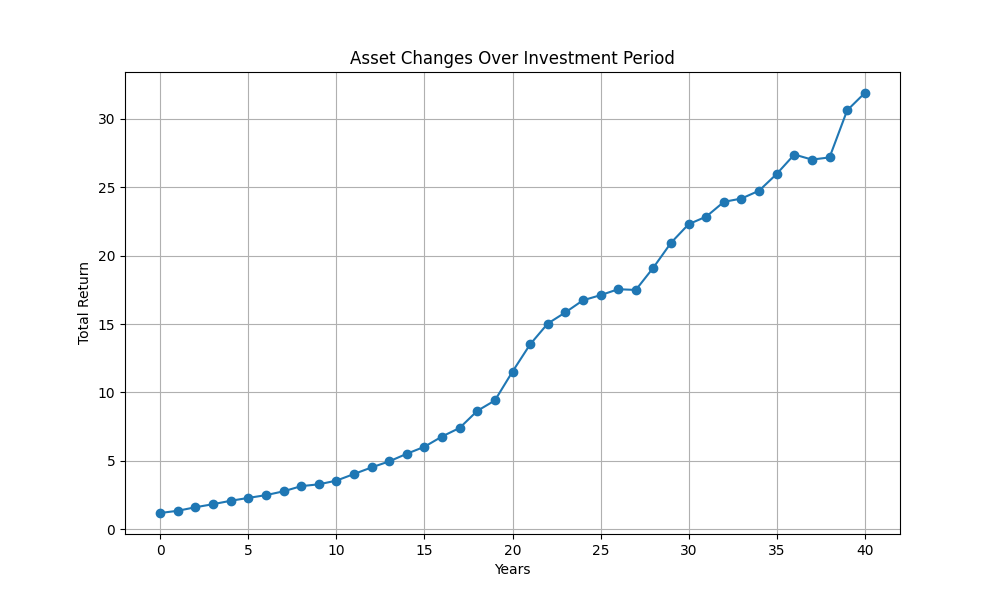
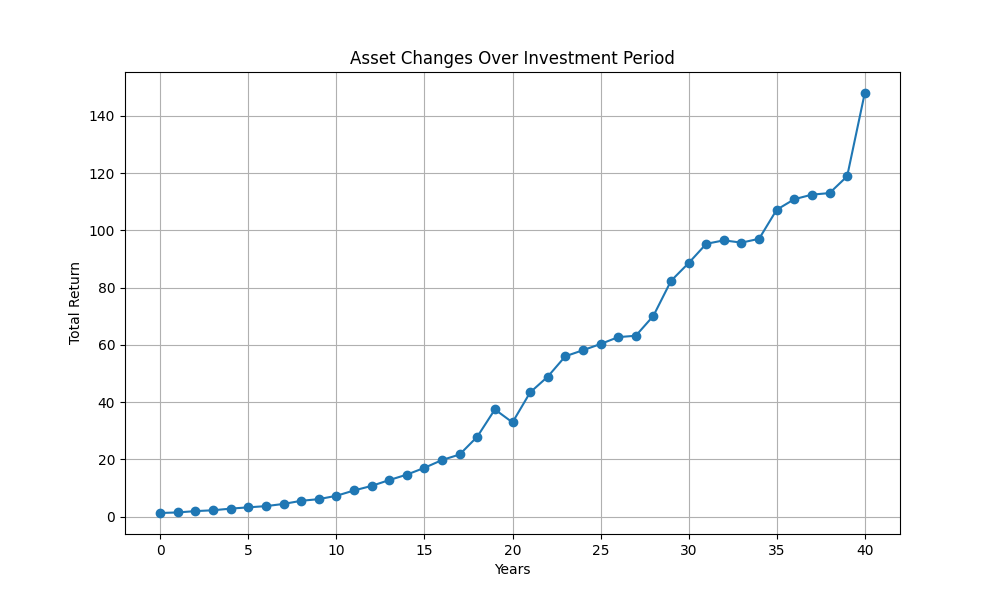
feat: take off pca & company feature and add trading fee

diff --git a/src/trading_strategy/trading.py b/src/trading_strategy/trading.py
@@ -27,10 +27,10 @@ class PairTradingService:
             diff = top_stock['mom1m'] - bottom_stock['mom1m']
             pairs.append((top_stock, bottom_stock, diff))
 
-        std_dev = np.std([p[2] for p in pairs])
-        valid_pairs = [p for p in pairs if p[2] > std_dev * self.std_dev_factor]
+        #std_dev = np.std([p[2] for p in pairs])
+        #valid_pairs = [p for p in pairs if p[2] > std_dev * self.std_dev_factor]
 
-        return valid_pairs
+        return pairs
 
     def form_portfolio(self, pairs):
         long_short_portfolio = {'long': [], 'short': []}
@@ -43,11 +43,19 @@ class PairTradingService:
         grouped_by_cluster = month_data.groupby('cluster')
         current_month_portfolio = {'long': [], 'short': []}
 
+        all_pairs=[]
         for cluster, cluster_data in grouped_by_cluster:
             pairs = self.find_pairs(cluster_data)
-            portfolio = self.form_portfolio(pairs)
-            current_month_portfolio['long'].extend(portfolio['long'])
-            current_month_portfolio['short'].extend(portfolio['short'])
+            all_pairs += pairs
+
+        std_dev = np.std([p[2] for p in all_pairs])
+        valid_pairs = [p for p in all_pairs if p[2] > std_dev * self.std_dev_factor]
+
+        print(" pair data for month ", month, "\n pair numbers: ", len(valid_pairs))
+
+        portfolio = self.form_portfolio(valid_pairs)
+        current_month_portfolio['long'].extend(portfolio['long'])
+        current_month_portfolio['short'].extend(portfolio['short'])
 
         return month, current_month_portfolio
 
@@ -77,13 +85,16 @@ class PairTradingService:
                     returns = self.calculate_monthly_returns(current_month_portfolio, next_month_data)
                     month_return.append([month, returns])
 
-        total_returns=[]
+        total_returns = []
+        monthly_returns = []
         for i, data in enumerate(tqdm(month_return, desc="Calculating total returns")):
             total_return *= (1 + data[1])
+            monthly_returns.append(data[1])
             if (i + 1) % 12 == 0:
                 total_returns.append(total_return)
 
         self.save_asset_changes_plot(total_returns)
+        self.save_monthly_returns_plot(monthly_returns)
 
         # Calculate IRR
         print("Annual IRR : ", total_return ** (1 / len(total_returns))*100-100,"%")
@@ -104,7 +115,7 @@ class PairTradingService:
 
         total_returns = long_returns + short_returns
         average_return = np.mean(total_returns) if total_returns else 0
-        return average_return
+        return average_return * 0.9985 # from https://www.sec.gov/edgar/filer/filing-fees/filing-fee-rate
 
     def save_asset_changes_plot(self,total_returns):
         """
@@ -127,3 +138,20 @@ class PairTradingService:
         total_returns_file = os.path.join(data_folder, '..', 'total_returns.pkl')  # Path to store total_returns data
         with open(total_returns_file, 'wb') as f:
             pickle.dump(total_returns, f)
+
+    def save_monthly_returns_plot(self, monthly_returns):
+        """
+        Save the plot of monthly returns over the investment period.
+
+        Args:
+            monthly_returns (list): List of monthly returns over the investment period.
+        """
+        print(monthly_returns)
+        plot_path = PATHS[config.CLUSTERING_ALGORITHM]['monthly_return_plot']  # Get the plot path from the config
+        plt.figure(figsize=(10, 6))
+        plt.plot(monthly_returns, marker='o', linestyle='-')
+        plt.title('Monthly Returns Over Investment Period')
+        plt.xlabel('Months')
+        plt.ylabel('Monthly Return')
+        plt.grid(True)
+        plt.savefig(plot_path)  # Save the plot to the specified path

diff --git a/src/data_processing/DataProcessor.py b/src/data_processing/DataProcessor.py
@@ -51,10 +51,12 @@ class DataProcessor:
         """Sanitize and feature engineer the preprocessed data."""
         filepath_feature_engineered = self.filepath_parquet.replace('.parquet', '_features.parquet')
 
+        result = pd.DataFrame()
         if os.path.exists(filepath_feature_engineered):
             # If preprocessed and feature engineered data exists, load it
             print("Step: Loading preprocessed and feature engineered data")
-            self.dataframe = pd.read_parquet(filepath_feature_engineered)
+            #self.dataframe = pd.read_parquet(filepath_feature_engineered)
+            result = pd.read_parquet(filepath_feature_engineered)
             print("Finish: Loading preprocessed and feature engineered data")
         else:
             # Otherwise, start sanitization and feature engineering
@@ -65,10 +67,18 @@ class DataProcessor:
             self.remove_high_nan_features()
 
             # Save the preprocessed and feature engineered data as Parquet
-            self.dataframe.to_parquet(filepath_feature_engineered, index=False, compression='snappy')
+            # self.dataframe.to_parquet(filepath_feature_engineered, index=False, compression='snappy')
+            # print("Finish: Sanitization and feature engineering")
+
+            result=pd.DataFrame()
+            features_to_exclude = ['permno', 'DATE'] + [f'mom{i}m' for i in range(1, self.WINDOW + 1)]
+            for feature in features_to_exclude:
+                result[feature] = self.dataframe[feature]
+            result.to_parquet(filepath_feature_engineered, index=False, compression='snappy')
             print("Finish: Sanitization and feature engineering")
 
-        return self.dataframe
+        #return self.dataframe
+        return result
 
 
     def calculate_momentum(self):

diff --git a/src/config.py b/src/config.py
@@ -8,19 +8,22 @@ PATHS = {
         'models': "../datafile/kmeans/models_df.pkl",
         'data': "../datafile/kmeans/clean_data.pkl",
         'plot': "../plots/kmeans_asset_changes.png",
-        'returns_list': "../datafile/kmeans/total_returns.pkl"  # Add returns_list path for kmeans
+        'returns_list': "../datafile/kmeans/total_returns.pkl",  # Add returns_list path for kmeans
+        'monthly_return_plot':"../plots/kmeans_monthly_return_plot.png"
     },
     'dbscan': {
         'models': "../datafile/dbscan/models_df.pkl",
         'data': "../datafile/dbscan/clean_data.pkl",
         'plot': "../plots/dbscan_asset_changes.png",
-        'returns_list': "../datafile/dbscan/total_returns.pkl"  # Add returns_list path for dbscan
+        'returns_list': "../datafile/dbscan/total_returns.pkl",  # Add returns_list path for dbscan
+        'monthly_return_plot':"../plots/dbscan_monthly_return_plot.png"
     },
     'agglo': {
         'models': "../datafile/agglomerative/models_df.pkl",
         'data': "../datafile/agglomerative/clean_data.pkl",
         'plot': "../plots/agglomerative_asset_changes.png",
-        'returns_list': "../datafile/agglomerative/total_returns.pkl"  # Add returns_list path for agglomerative
+        'returns_list': "../datafile/agglomerative/total_returns.pkl",  # Add returns_list path for agglomerative
+        'monthly_return_plot':"../plots/agglo_monthly_return_plot.png"
     },
     'faiss': {
         'models': "../datafile/faiss/models_df.pkl",

diff --git a/src/utilities/utils.py b/src/utilities/utils.py
@@ -18,9 +18,10 @@ def load_and_prepare_data():
     )
     processor.load_data()
     processor.preprocess_data()
-    processor.sanitize_and_feature_engineer()
-    feature_data = processor.reduce_dimensionality_with_pca()
+    feature_data = processor.sanitize_and_feature_engineer()
+    # feature_data = processor.reduce_dimensionality_with_pca()
     feature_data.columns = feature_data.columns.astype(str)
+    print(feature_data.tail(100))
     return feature_data
 
 
